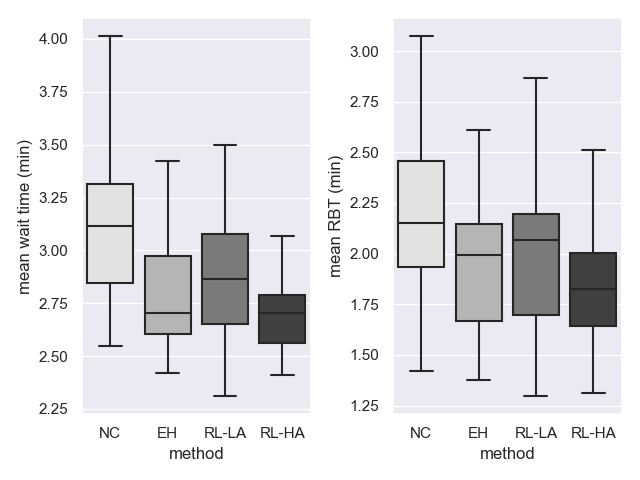
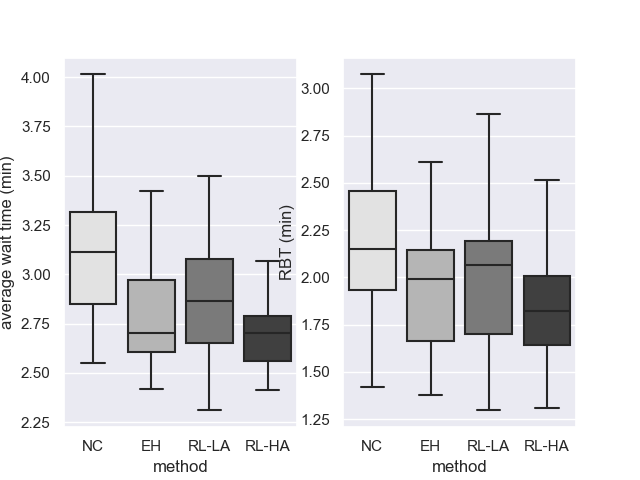
fancy plots

diff --git a/main_sim.py b/main_sim.py
@@ -208,7 +208,8 @@ def fancy_plots():
     plt.savefig('out/compare/sensitivity compliance/wt_fancy.png')
     plt.close()
 
-    fig, ax = plt.subplots(ncols=2)
+    # fig, ax = plt.subplots(ncols=2)
+    # plt.subplots_adjust(left=0.1, right=0.9)
     wt_set_b = load(path_dir_b + 'wt_numer.pkl')
     rbt_set_b = load(path_dir_b + 'rbt_numer.pkl')
     wt = list(np.array(wt_set_b).flatten())
@@ -217,12 +218,16 @@ def fancy_plots():
     df_dict = {'method': method, 'wt': wt, 'rbt': rbt}
     df = pd.DataFrame(df_dict)
     sns.set(style='darkgrid')
-    sns.boxplot(data=df, x='method', y='wt' ,ax=ax[0], showfliers=False, palette='Greys')
-    sns.boxplot(data=df,x='method', y='rbt' ,ax=ax[1], showfliers=False, palette='Greys')
-    ax[0].set_ylabel('average wait time (min)')
-    ax[1].set_ylabel('RBT (min)')
+    sns.boxplot(data=df, x='method', y='wt', showfliers=False, palette='Greys')
+
+    plt.ylabel('average wait time (min)')
     plt.tight_layout()
-    plt.savefig('out/compare/benchmark/pax_times_fancy.png')
+    plt.savefig('out/compare/benchmark/wt_fancy.png')
+    plt.close()
+    sns.boxplot(data=df, x='method', y='rbt', showfliers=False, palette='Greys')
+    plt.ylabel('RBT (min)')
+    plt.tight_layout()
+    plt.savefig('out/compare/benchmark/rbt_fancy.png')
     plt.close()
     return
 
